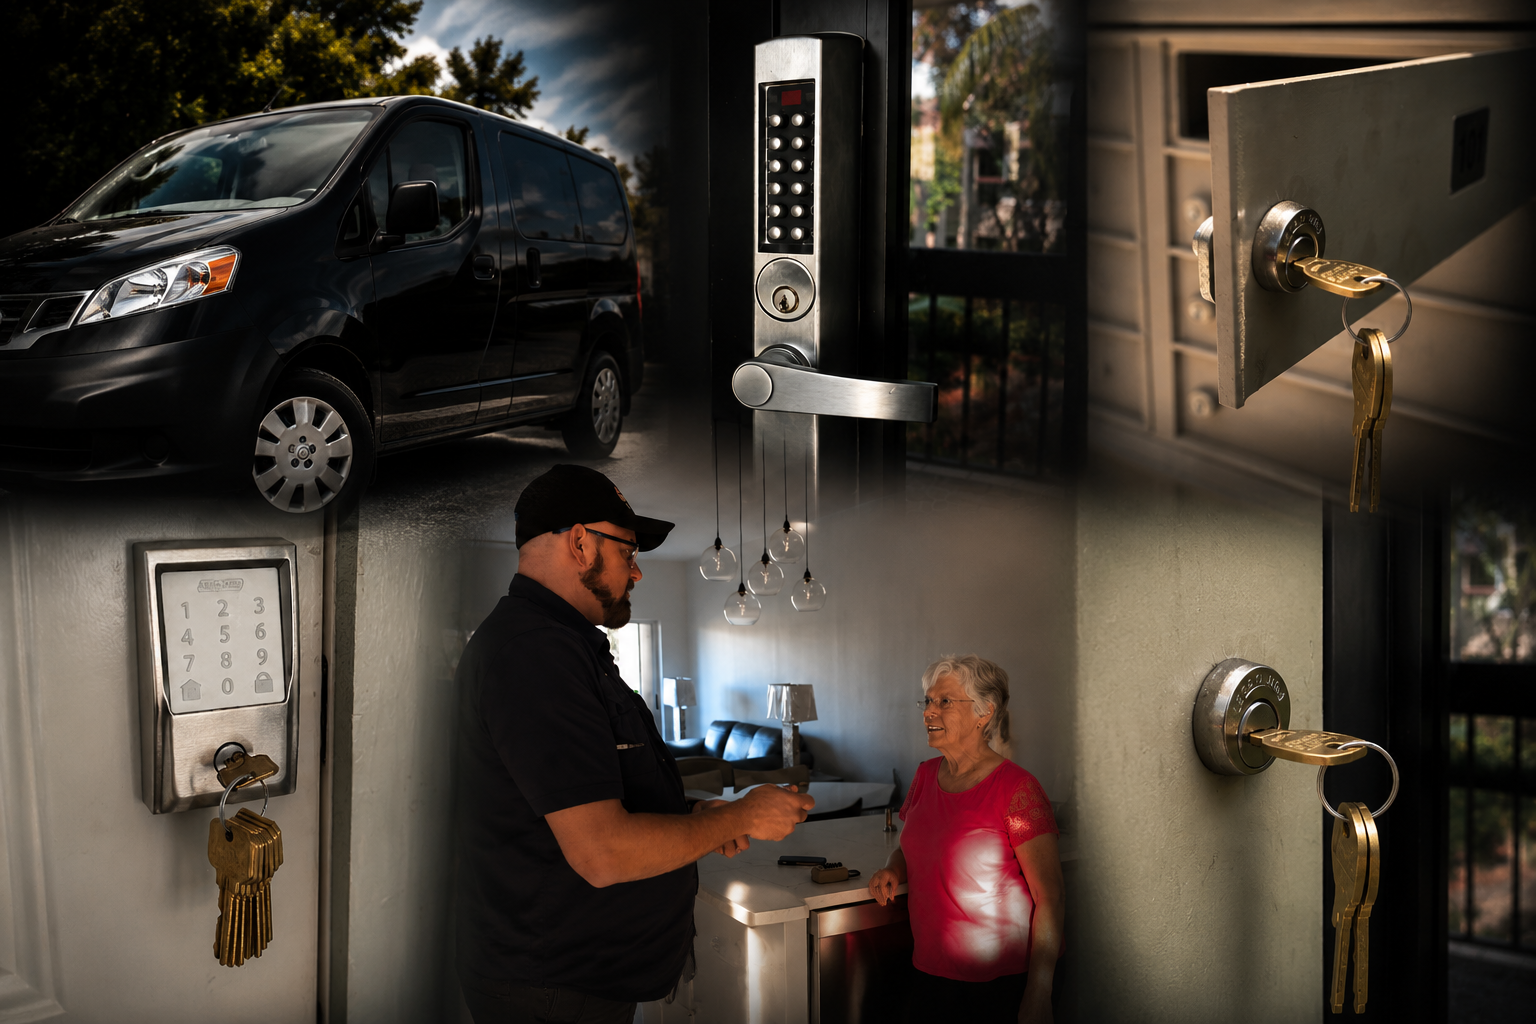
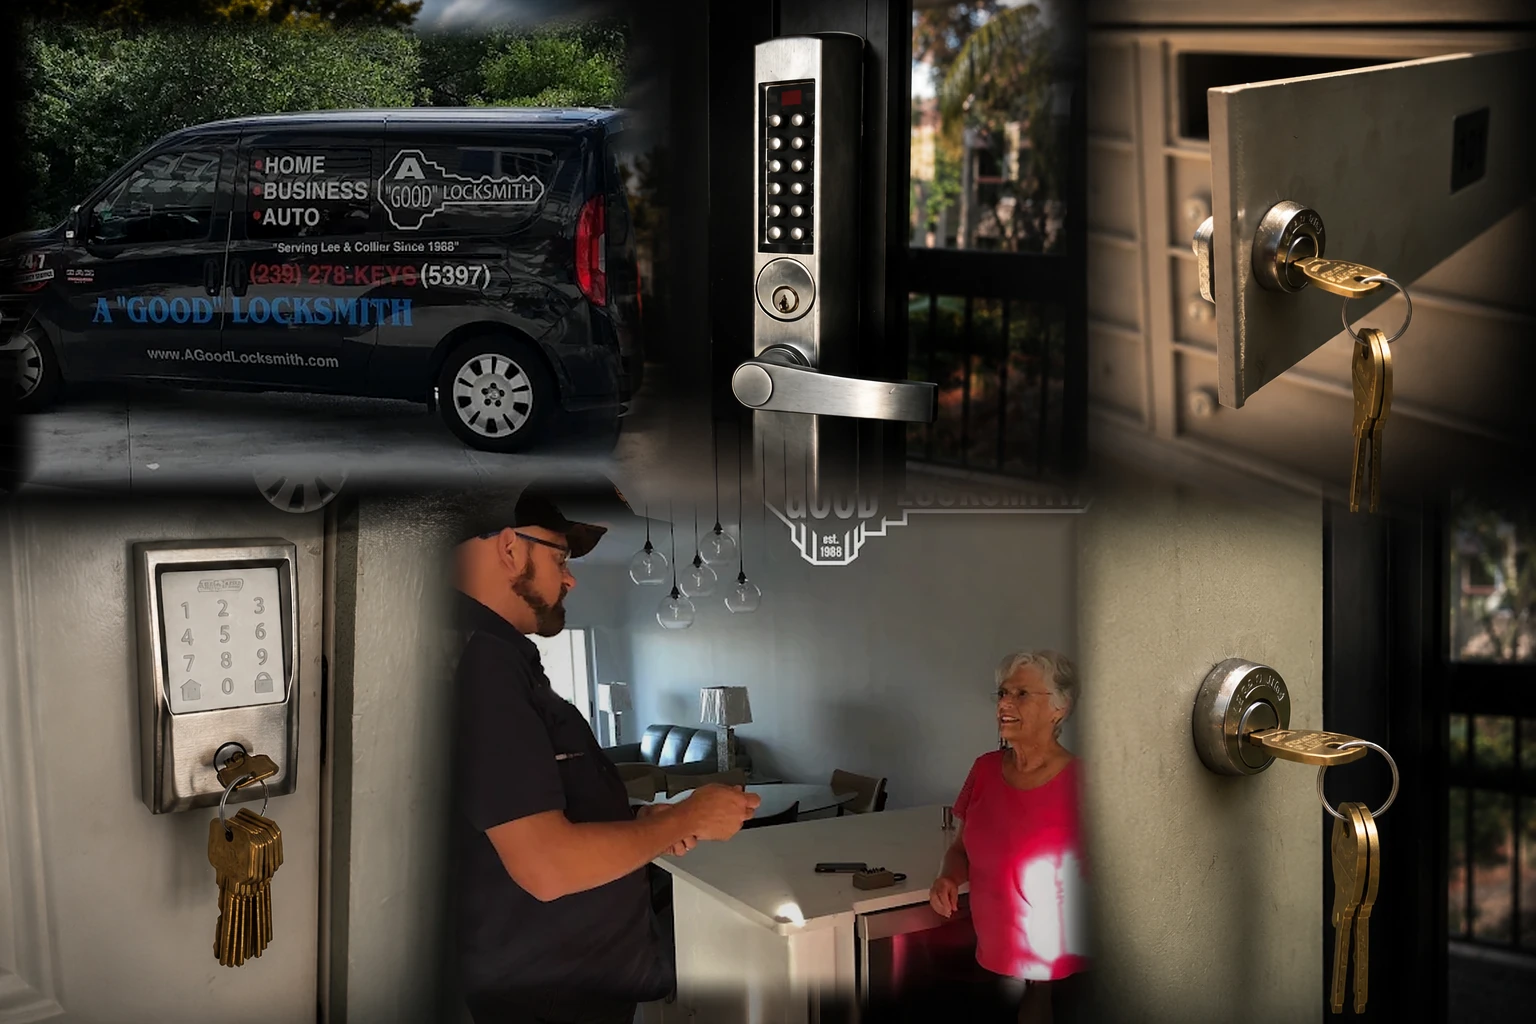
Replace placeholder imagery with original /images assets.
Blend branded van and dad conversation into the existing hero collage, swap the communities banner to BANNER.png, wire commercial and resource article photos to the real files, and restore IMG_2080/smartlock paths for About and Resource Center.

Changed region(s): [[0.0, 0.0, 0.7188, 1.0], [0.3125, 0.9062, 0.3438, 0.9375]]

diff --git a/index.html b/index.html
@@ -280,10 +280,10 @@
             <div class="communities-banner" aria-label="Communities that trust us">
 
                 <img
-                    src="communities-trust-banner.webp"
-                    alt="Communities That Trust Us — Spanish Wells, Pelican Landing, Neal Communities, Mediterra, Village of Estero, Domain Realty, Casa Bonita, City of Bonita Springs, Bonita Bay, Barefoot Beach, Worthington Country Club, and Palmira Golf Club"
-                    width="1536"
-                    height="435"
+                    src="images/BANNER.png"
+                    alt="Southwest Florida communities served by A Good Locksmith — Fort Myers, Estero, Naples, Lee County, and Bonita Springs"
+                    width="1535"
+                    height="1024"
                     sizes="(max-width: 1180px) 92vw, 1180px"
                     loading="eager"
                     fetchpriority="high"
@@ -457,7 +457,7 @@
         <div class="service-row">
 
             <div class="service-image">
-                <img src="images/commercial.webp" alt="Commercial Locksmith" loading="lazy" width="800" height="600">
+                <img src="images/commercial.jpg" alt="Commercial Locksmith" loading="lazy" width="800" height="600">
             </div>
 
             <div class="service-content">
@@ -604,7 +604,7 @@
 
                 <div class="about-image about-image-story">
 
-                    <img src="images/IMG_2080.jpg" alt="A Good Locksmith technician helping a Southwest Florida homeowner" width="737" height="697" loading="lazy" decoding="async">
+                    <img src="images/IMG_2080.jpg" alt="A Good Locksmith branded service van serving Southwest Florida since 1988" width="1320" height="1667" loading="lazy" decoding="async">
 
                 </div>
 

diff --git a/style.css b/style.css
@@ -836,7 +836,7 @@ header,
 
     overflow:hidden;
 
-    background:#fff;
+    background:#0f1a14;
 
     box-shadow:
         0 18px 42px rgba(0,0,0,.28),
@@ -854,7 +854,11 @@ header,
 
     max-width:100%;
 
-    object-fit:contain;
+    aspect-ratio:1536 / 435;
+
+    object-fit:cover;
+
+    object-position:center 42%;
 
 }
 
@@ -1905,7 +1909,7 @@ header,
 
     object-fit:cover;
 
-    object-position:center 22%;
+    object-position:center 40%;
 
     width:100%;
 
